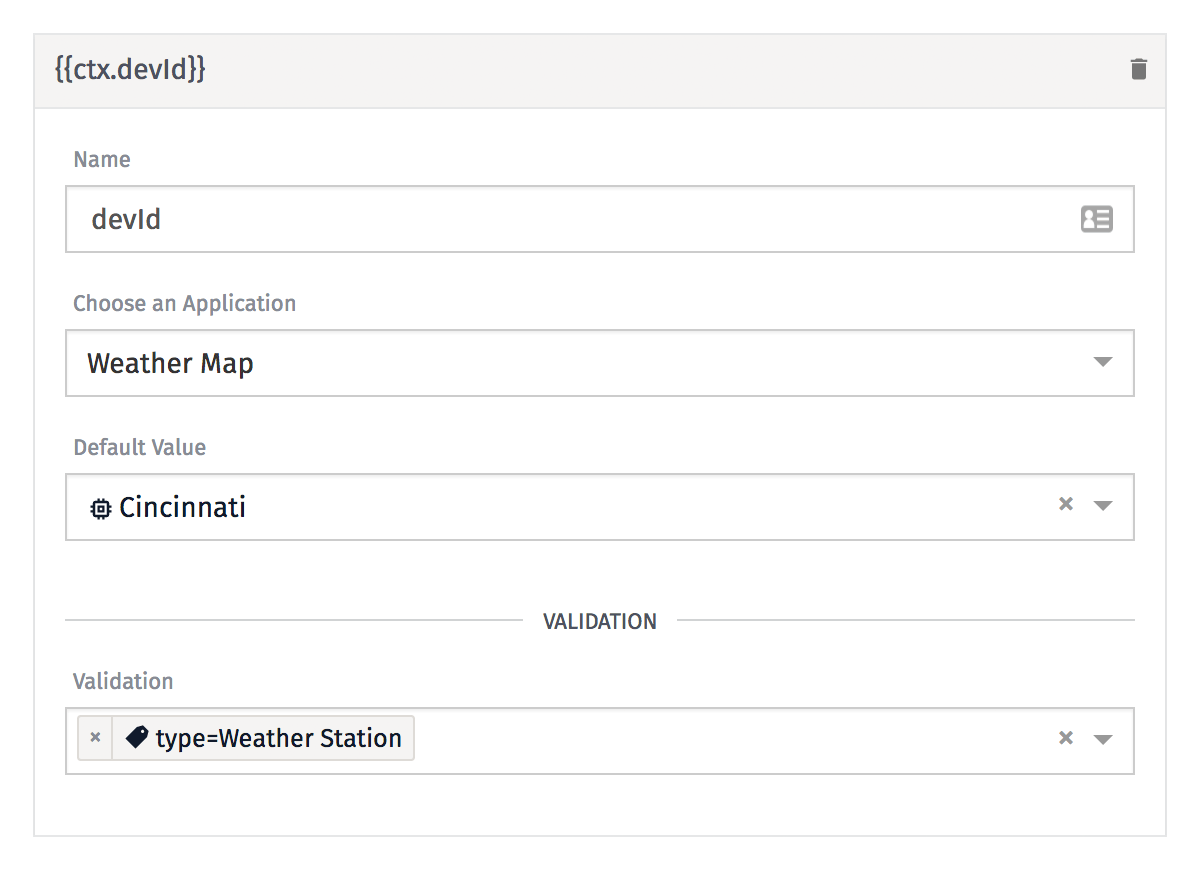
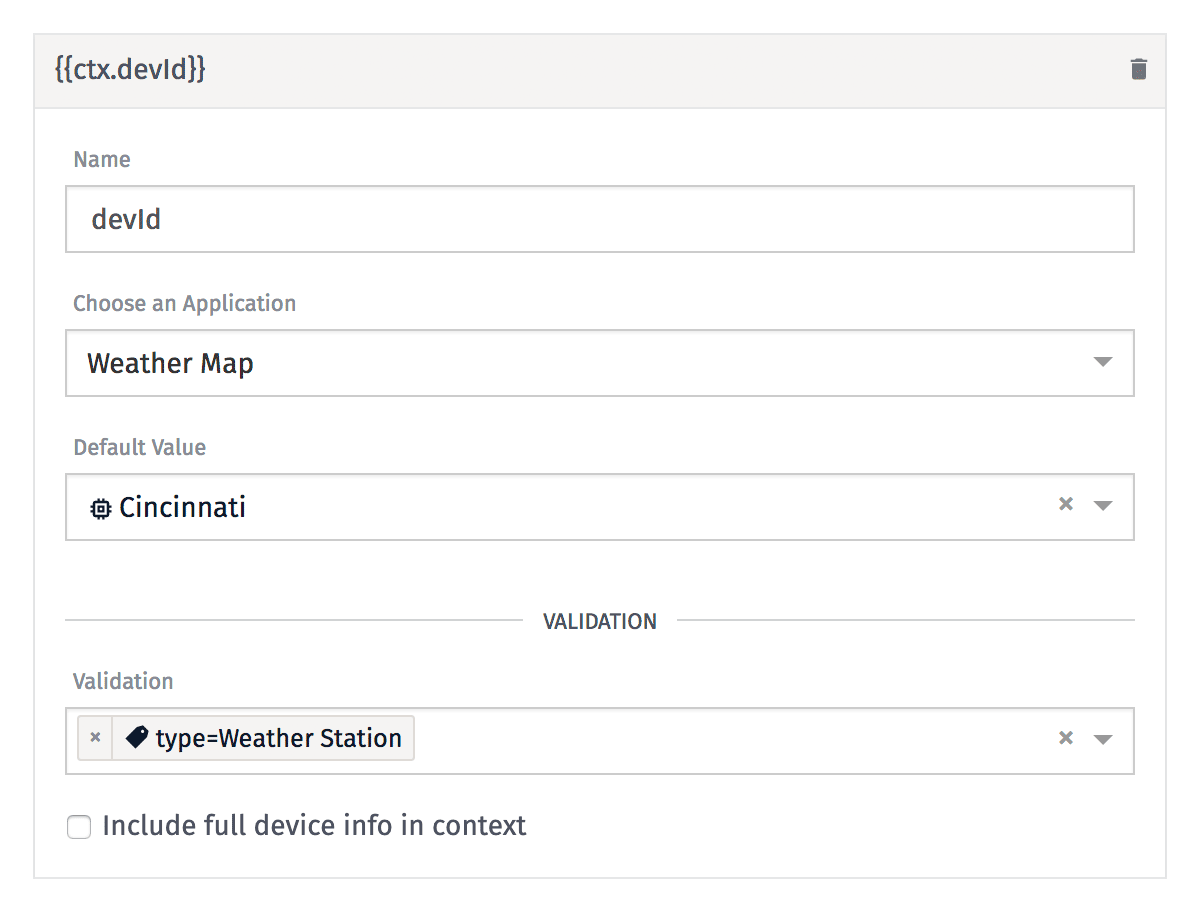
device context variable docs updates

diff --git a/docs/dashboards/context-variables.md b/docs/dashboards/context-variables.md
@@ -26,13 +26,14 @@ To add a new variable, click the "Add Variable" button on the "Context Variables
 
 ### Device IDs
 
-A "Device ID" is a [device query](/devices/device-queries/) that takes a single device at a time. Device IDs take three additional parameters:
+A "Device ID" is a [device query](/devices/device-queries/) that takes a single device at a time. Device IDs take four additional parameters:
 
 ![Device ID Context](/images/dashboards/context-deviceId.png "Device ID Context")
 
 * **Application ID** is the Losant [application](/applications/overview/) to which any selected device must belong.
 * **Default Value** is the device ID to use when no value is provided by the user.
 * **Validation** is optional; it is a [device query](/devices/device-queries/) that accepts device IDs and/or [tags](/devices/overview/#device-tags) that the variable must match. If both IDs and tags are provided, the variable may match a specific ID, or the tag must be applied to the device. If multiple tags are defined in validation, the device must match **all** tags (or a provided ID). If no validation rules are provided, then any device from the selected application is valid. Note that the default value does not have to match your defined validation rules.
+* **Include full device info in context** is unchecked by default. When checked, the name and tags of the device matching the ID set in the context variable will be available when [using this variable](#using-device-ids) within your dashboard, and whether the variable is checked affects how it is used.
 
 If a device ID is used in a query with an attribute that is not defined on the device, the block that is referencing the variable will fail to load.
 
@@ -143,6 +144,14 @@ A Device ID value can, for example, be used to ...
 * Highlight one device against an array of devices in [time series graphs](/dashboards/time-series-graph/)
 * View data from a single device at a time within a [device state table](/dashboards/device-state-table/)
 * Color-coding [map pins](/dashboards/gps-history/#advanced-pin-style-configuration), [gauges](/dashboards/gauge/#conditional-gauge-colors) and [indicator blocks](/dashboards/indicator/#conditions) when viewing a specific device
+
+Note that if the "**Include full device info in context**" checkbox is checked for a device ID variable, rendering the value of the context variable requires referencing the properties of the **object** returned in the context.
+
+* `{{ctx.VARIABLE_NAME.id}}` renders the device ID
+* `{{ctx.VARIABLE_NAME.name}}` renders the device name
+* `{{ctx.VARIABLE_NAME.tags}}` is a reference to the tags associated with the device; you may wish to [iterate over all tags](/workflows/accessing-payload-data/#iterating-over-arrays-and-objects) or get the value of a specific tag with a string template such as `{{ctx.VARIABLE_NAME.tags.TAG_KEY.[INDEX]}}`, where `INDEX` is usually `0` since tag values are returned as an array.
+
+If you are not returning full device info, you may only render the currently selected device's ID with `{{ctx.VARIABLE_NAME}}`.
 
 ### Using Device Tags
 
